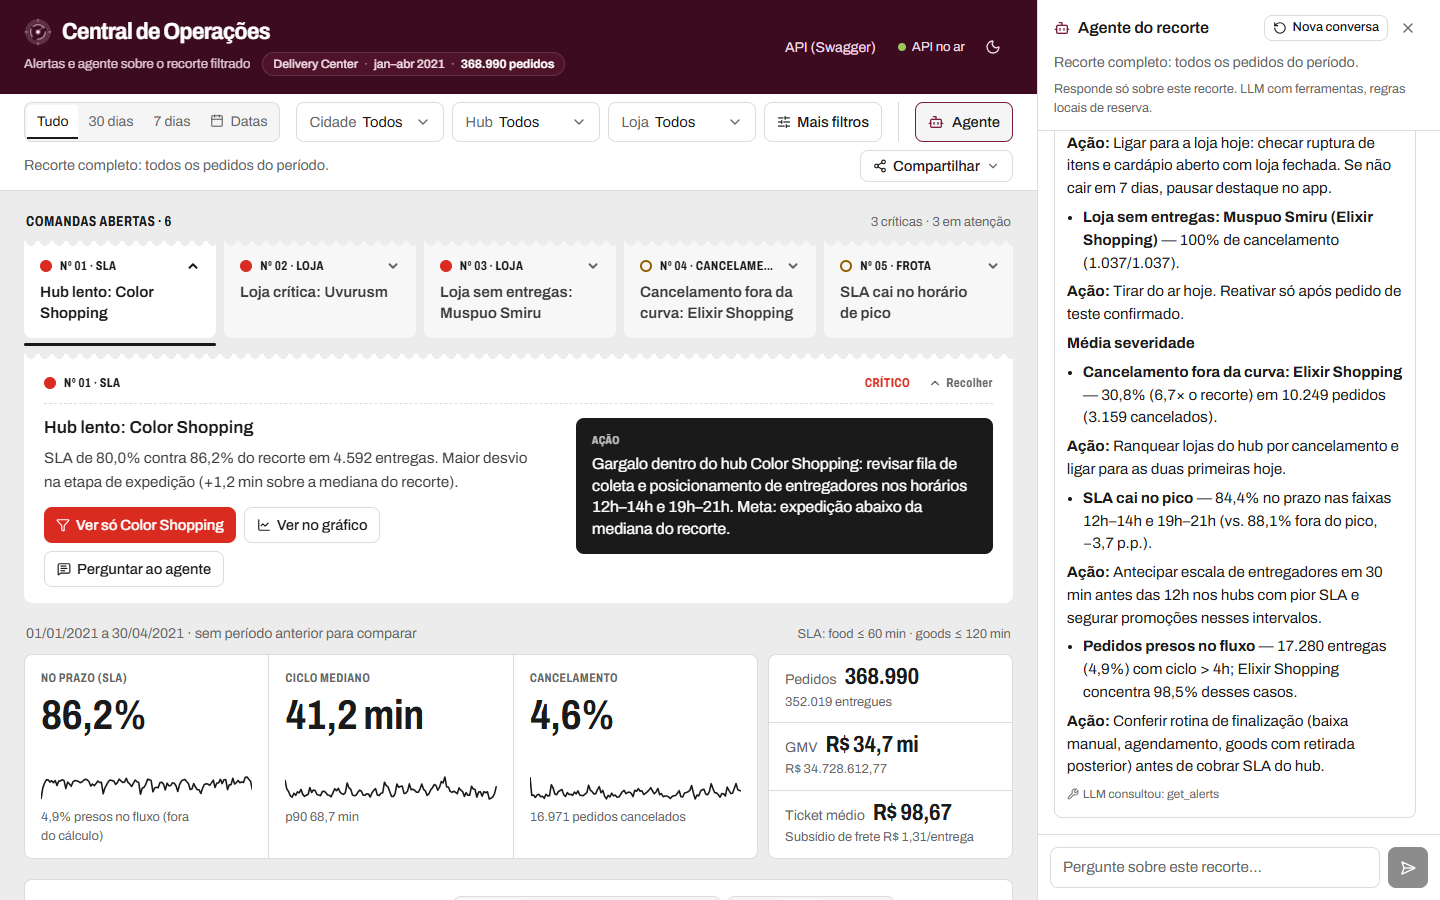
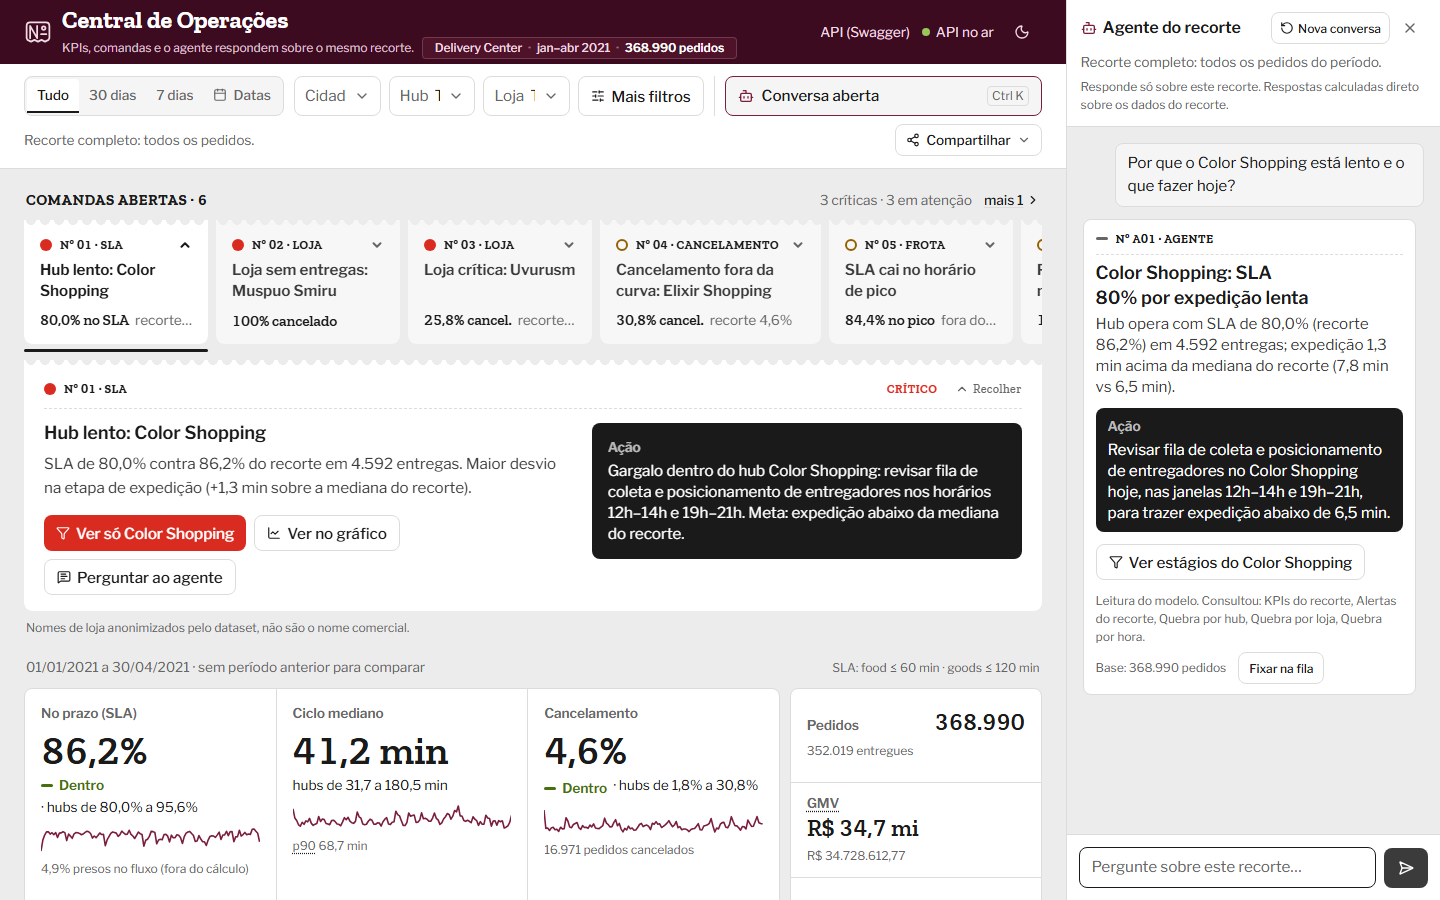
docs: atualiza README com investigação da comanda e capturas
- Descreve a investigação da comanda, o drill-down com "Desfazer filtro" e o fechamento do recorte
- Atualiza a seção do agente (botões de pergunta, cancelamento e comandas fixadas) e a de gráficos recolhidos
- Substitui as capturas do painel e adiciona as de pico e fechamento

diff --git a/README.md b/README.md
@@ -8,7 +8,7 @@ Roda sobre **368.990 pedidos reais** do dataset [Delivery Center](https://www.ka
 
 > A API roda no plano grátis do Render e dorme sem acesso. Na primeira visita o topo mostra "Acordando o servidor (até ~40 s)".
 
-![Painel com filtros, fila de comandas e KPIs](assets/painel.png)
+![Painel com filtros, trilho de comandas com número e referência, a Comanda Nº 01 aberta e os KPIs](assets/painel.png)
 
 ## Automação diária
 
@@ -46,22 +46,25 @@ Por isso tudo aqui (KPIs, gráficos, tabelas, exportação, alertas e agente) us
 
 | | |
 |---|---|
-| **Fila de comandas** | Os alertas aparecem como comandas num trilho, da mais grave para a menos grave. A severidade aparece também na forma (círculo cheio = crítico, vazado = atenção, traço = observar). A comanda aberta mostra o problema com números, a **ação** (quem faz o quê, onde e quando) e três saídas: filtrar o painel no hub/loja, **ver no gráfico** (rola até o gráfico e destaca as barras, horas ou lojas do alerta) e perguntar ao agente. |
+| **Fila de comandas** | Os alertas aparecem como comandas num trilho, da mais grave para a menos grave. A severidade aparece também na forma (círculo cheio = crítico, vazado = atenção, traço = observar). Cada comanda do trilho já mostra o número principal e a referência (ex.: "80,0% no SLA · recorte 86,2%"). A comanda aberta mostra o problema com números, a **ação** (quem faz o quê, onde e quando) e até três saídas: filtrar o painel no hub/loja (quando o alerta aponta um), **ver no gráfico** (rola até o gráfico da investigação e destaca as barras, horas ou lojas do alerta) e perguntar ao agente. |
 | **Alertas cobertos** | SLA do recorte fora do prazo e hub lento com a etapa que explica o atraso; cancelamento alto no recorte, no hub ou na loja; loja sem entregas (tirar do ar); SLA no horário de pico; pedidos presos no fluxo; queda de volume com o canal que mais caiu; subsídio de frete com a loja que mais pesa. Hub só entra na comparação com 300 pedidos ou mais, loja com 150. Nos alertas de SLA com menos de 100 entregas medidas, e nos de cancelamento com menos de 100 pedidos (salvo taxa extrema), a comanda vira "observar" e orienta ampliar o período, ou avisa que a base não sustenta ação quando o recorte já cobre todos os dados. |
-| **Agente do recorte** | Abre num painel lateral (telas largas), flutuante (médias) ou numa folha (celular), com `Ctrl+K` ou pelo botão "Perguntar" de cada painel, que já preenche a pergunta. Sem API key, responde com regras e estatísticas locais. Com `OPENROUTER_API_KEY`, usa LLM com **tool calling** (`get_kpis`, `get_breakdown`, `get_alerts`, `get_timeseries`). O recorte é aplicado pelo servidor, então o modelo escolhe o que consultar mas nunca sobre quais dados. Com LLM ligado, a leitura pelas regras aparece na hora e é substituída pela do modelo quando ela chega. Cada resposta vem como comanda (título, diagnóstico, ação e atalhos de filtro conferidos contra os hubs e lojas do recorte), diz se veio das regras ou quais ferramentas o LLM consultou e pode ser fixada no trilho de comandas. A conversa sobrevive a recarregar a página na mesma aba. |
-| **KPIs** | No prazo (SLA), ciclo mediano (com p90) e cancelamento, com veredito, referência e minigráfico diário; pedidos, GMV e ticket médio. A referência é a rede no mesmo período, ou a faixa entre os hubs quando o recorte já é a rede. Compara com o período anterior de mesmo tamanho e avisa quando a base é pequena demais para comparar. |
-| **Gráficos (ECharts)** | Tendência (volume, SLA e ciclo ou cancelamento; por hora, dia ou semana) com zoom que vira período do filtro ("Usar como período"); etapas do ciclo por hub (clique filtra); mapa de calor dia × hora (pedidos, no prazo, cancelamento ou ciclo); dispersão de lojas com troca de métrica e "Selecionar área" para filtrar um grupo. A métrica e a granularidade escolhidas também ficam na URL. |
-| **Investigação da comanda** | Abaixo dos KPIs, o painel mostra o gráfico que prova a comanda aberta (etapas por hub, dia × hora ou lojas; a Tendência na métrica do KPI quando a comanda é de KPI). Sem comanda aberta, mostra a Tendência. O Ranking fica sempre aberto; os outros gráficos e a tabela de pedidos ficam recolhidos em "Explorar o recorte" e só carregam ao abrir. A página fecha com o "Fechamento do recorte": comandas abertas, a ação em foco, próxima comanda, briefing, agente e CSV. |
-| **Tabelas (TanStack)** | Ranking por hub/loja/cidade/canal/modal/pagamento/dia da semana, com setas onde o SLA ou o cancelamento fogem do recorte, asterisco em base pequena e atalho para filtrar a linha. Pedidos brutos com paginação e ordenação no servidor e rolagem virtualizada; clicar num pedido abre o detalhe (preparo, trânsito, distância, valor) com atalhos para filtrar o hub ou a loja e perguntar ao agente. |
-| **Compartilhar e exportar** | O recorte fica na URL (`?city=Curitiba&hub=8`). O menu "Compartilhar" copia o link, baixa os pedidos em CSV, copia um briefing em Markdown (KPIs + alertas com ação) e gera PDF da tela (relatório focado: o que está aberto sai inteiro, o que está recolhido sai como título e resumo). No celular, "Copiar link" e "Exportar" ficam no rodapé da folha de filtros. |
-| **Recorte vazio e link inválido** | Quando cidade, hub, loja e período não se cruzam, o painel explica qual combinação zerou o recorte e oferece "Limpar recorte". Parâmetros de um link compartilhado que não existem na base são ignorados com aviso. |
-| **Tema, celular e acessibilidade** | Tema claro e escuro. No celular os filtros viram uma folha e o agente abre por um botão flutuante. Links de pular para comandas e filtros, trilho navegável por setas, equivalentes de teclado nos gráficos, glossário inline (p90, GMV, subsídio) e respeito a `prefers-reduced-motion`. |
+| **Agente do recorte** | Abre num painel lateral (telas largas), flutuante (médias) ou numa folha (celular), com `Ctrl+K` ou pelos botões "Perguntar" dos painéis, da comanda, do detalhe do pedido e do fechamento, que já preenchem a pergunta. Sem API key, responde com regras e estatísticas locais. Com `OPENROUTER_API_KEY`, usa LLM com **tool calling** (`get_kpis`, `get_breakdown`, `get_alerts`, `get_timeseries`). O recorte é aplicado pelo servidor, então o modelo escolhe o que consultar mas nunca sobre quais dados. Com LLM ligado, a leitura pelas regras aparece na hora e é substituída pela do modelo quando ela chega; dá para mandar outra pergunta sem esperar, e ela cancela o complemento em curso. Cada resposta vem como comanda (título, diagnóstico, ação e atalhos de filtro conferidos contra os hubs e lojas do recorte), diz se veio das regras ou quais ferramentas o LLM consultou e pode ser fixada no trilho de comandas, onde continua ao mudar o recorte, marcada com "Recorte mudou". A conversa sobrevive a recarregar a página na mesma aba. |
+| **KPIs** | No prazo (SLA), ciclo mediano (com p90) e cancelamento, com veredito, referência e minigráfico diário; pedidos, GMV e ticket médio. A referência é a rede no mesmo período (traço pontilhado "rede" no minigráfico, quando cabe na escala), ou a faixa entre os hubs quando o recorte já é a rede. Compara com o período anterior de mesmo tamanho e avisa quando a base é pequena demais para comparar. |
+| **Gráficos (ECharts)** | Só um aparece aberto por vez, na investigação da comanda (abaixo); os outros ficam em "Explorar o recorte". Tendência (volume, SLA e ciclo ou cancelamento; por hora, dia ou semana) com zoom que vira período do filtro ("Usar como período"); etapas do ciclo por hub (clique filtra); mapa de calor dia × hora (pedidos, no prazo, cancelamento ou ciclo); dispersão de lojas com troca de métrica e "Selecionar área" para filtrar um grupo. A métrica e a granularidade escolhidas também ficam na URL. |
+| **Investigação da comanda** | Abaixo dos KPIs, a seção "Investigação · Comanda Nº XX" mostra o gráfico que prova a comanda aberta (etapas por hub, dia × hora ou lojas; a Tendência na métrica do KPI quando a comanda é de KPI). Sem comanda aberta, ou com uma comanda do agente, vira "Pulso do recorte" e mostra a Tendência. O Ranking fica sempre aberto; os outros gráficos e a tabela de pedidos ficam recolhidos em "Explorar o recorte" e só carregam ao abrir (o que você abriu continua aberto ao trocar de comanda). A página fecha com o "Fechamento do recorte": comandas abertas, a ação em foco, "Próxima comanda", copiar briefing, perguntar ao agente e CSV (pede confirmação acima de 10 mil pedidos e fica bloqueado acima do limite do servidor). |
+| **Tabelas (TanStack)** | Ranking por hub/loja/cidade/canal/modal/pagamento/dia da semana, com setas onde o SLA ou o cancelamento fogem do recorte, asterisco em base pequena e atalho para filtrar a linha. Pedidos brutos com paginação e ordenação no servidor e rolagem virtualizada; clicar num pedido abre o detalhe (preparo, trânsito, distância, valor, pagamento em português, horário de Brasília), que recebe o foco e fecha com `Esc`, com atalhos para filtrar o hub ou a loja e perguntar ao agente. |
+| **Compartilhar e exportar** | O recorte fica na URL (`?city=Curitiba&hub=8`). O menu "Compartilhar" copia o link, baixa os pedidos em CSV, copia um briefing em Markdown (KPIs + alertas com ação) e gera PDF da tela (relatório focado: botões somem, o trilho imprime a ação de todas as comandas, o que está aberto sai inteiro e o que está recolhido sai como título e resumo). No celular, "Copiar link" e "Exportar" ficam no rodapé da folha de filtros. |
+| **Drill-down e desfazer** | Filtrar a partir de uma comanda, gráfico, tabela ou pedido tira os filtros de cidade, hub ou loja que não combinam com o novo (para não zerar o recorte) e mostra "Desfazer filtro" ao lado dos chips; `Ctrl+Z` faz o mesmo fora de campos de texto. |
+| **Recorte vazio e link inválido** | Quando cidade, hub, loja e período não se cruzam, o painel explica qual combinação zerou o recorte, oferece "Limpar recorte" e recolhe KPIs e a metade de baixo da página. Parâmetros de um link compartilhado que não existem na base são ignorados com aviso. |
+| **Tema, celular e acessibilidade** | Tema claro e escuro. No celular os filtros viram uma folha, o agente abre por um botão flutuante e alvos de toque e linhas da tabela de pedidos têm 44 px. Links de pular para comandas e filtros, trilho navegável por setas, equivalentes de teclado nos gráficos, glossário inline (p90, GMV, subsídio) e respeito a `prefers-reduced-motion`. |
 
-![Agente respondendo sobre os alertas do recorte](assets/agente.png)
-![Tendência](assets/tendencia.png)
-![Etapas por hub e mapa de calor](assets/operacao.png)
-![Lojas e ranking](assets/lojas.png)
-![Tema escuro](assets/escuro.png)
+![Agente no painel lateral respondendo em forma de comanda, com ação, atalho de filtro e as ferramentas que o LLM consultou](assets/agente.png)
+![Investigação da Comanda Nº 01: etapas do ciclo por hub com o hub do alerta em destaque, e o Ranking do recorte logo abaixo](assets/operacao.png)
+![Investigação da Comanda Nº 05: mapa de calor dia × hora em "No prazo" com as faixas de pico marcadas](assets/pico.png)
+![Investigação da Comanda Nº 03: dispersão de lojas com a loja do alerta marcada, e o Ranking do recorte](assets/lojas.png)
+![Pulso do recorte sem comanda aberta: Tendência de volume e GMV por dia, com a barra de zoom](assets/tendencia.png)
+![Explorar o recorte com os painéis recolhidos e o Fechamento do recorte em Curitiba: ação em foco, Próxima comanda, briefing, agente e CSV](assets/fechamento.png)
+![Tema escuro com o recorte de Curitiba: chip do filtro, comandas da cidade e KPIs comparados com a rede](assets/escuro.png)
 
 ## Arquitetura
 
@@ -79,8 +82,8 @@ Decisões que vale conhecer:
 
 - **DuckDB sobre Parquet, sem banco.** O dataset tem 9,8 MB em Parquet; o DuckDB carrega tudo em memória e calcula os KPIs de 369 mil linhas em menos de 100 ms, e um cache LRU devolve recortes repetidos em menos de 1 ms. O SQL recebe valores só por parâmetros, e colunas e ordenações vêm de listas fixas.
 - **Um contrato de filtro.** `Filters` (Pydantic) é a query string da API e da URL do navegador. Os tipos TypeScript são gerados do OpenAPI: se um schema muda, o `astro check` quebra no build.
-- **Ilhas que se falam sem Provider global.** O filtro grava num átomo Nanostores; KPIs, gráficos, tabelas e agente são ilhas separadas que escutam o mesmo átomo e compartilham um `QueryClient`. A comanda aberta publica sua evidência num segundo átomo, que os gráficos usam para destacar o que o alerta aponta.
-- **Sem salto de layout.** Moldura, título e dica fixa de cada painel saem no HTML do Astro; a ilha só preenche o corpo, e o skeleton reserva a altura final. Acima da dobra hidrata com `client:load`; gráficos e tabelas com `client:visible`; a conversa do agente entra com `React.lazy`.
+- **Ilhas que se falam sem Provider global.** O filtro grava num átomo Nanostores; KPIs, gráficos, tabelas e agente são ilhas separadas que escutam o mesmo átomo e compartilham um `QueryClient`. A comanda aberta publica sua evidência num segundo átomo: ele decide qual gráfico sobe para a investigação (os painéis são movidos no DOM, não reordenados por CSS), o que esse gráfico destaca e o que o fechamento mostra em foco.
+- **Sem salto de layout.** Moldura, título e dica fixa de cada painel saem no HTML do Astro; a ilha só preenche o corpo, e o skeleton reserva a altura final. Acima da dobra hidrata com `client:load`; gráficos, tabelas e fechamento com `client:visible`, e os painéis recolhidos só hidratam quando abertos; a conversa do agente, a folha de filtros e o diálogo de exportação entram com `React.lazy`.
 - **Agente com limites.** O LLM fecha a resposta num bloco estruturado que o backend valida: atalho para hub ou loja que não existe no recorte é descartado. Até 3 rodadas de ferramentas, orçamento de 20 s por pergunta, histórico curto, corpo de até 64 KB (contado no stream, não só no `Content-Length`), 8 perguntas por minuto por IP e um teto global por minuto. Se o LLM falha, demora ou a cota acaba, a resposta vem das regras locais em vez de um erro.
 
 ## Limpeza dos dados
